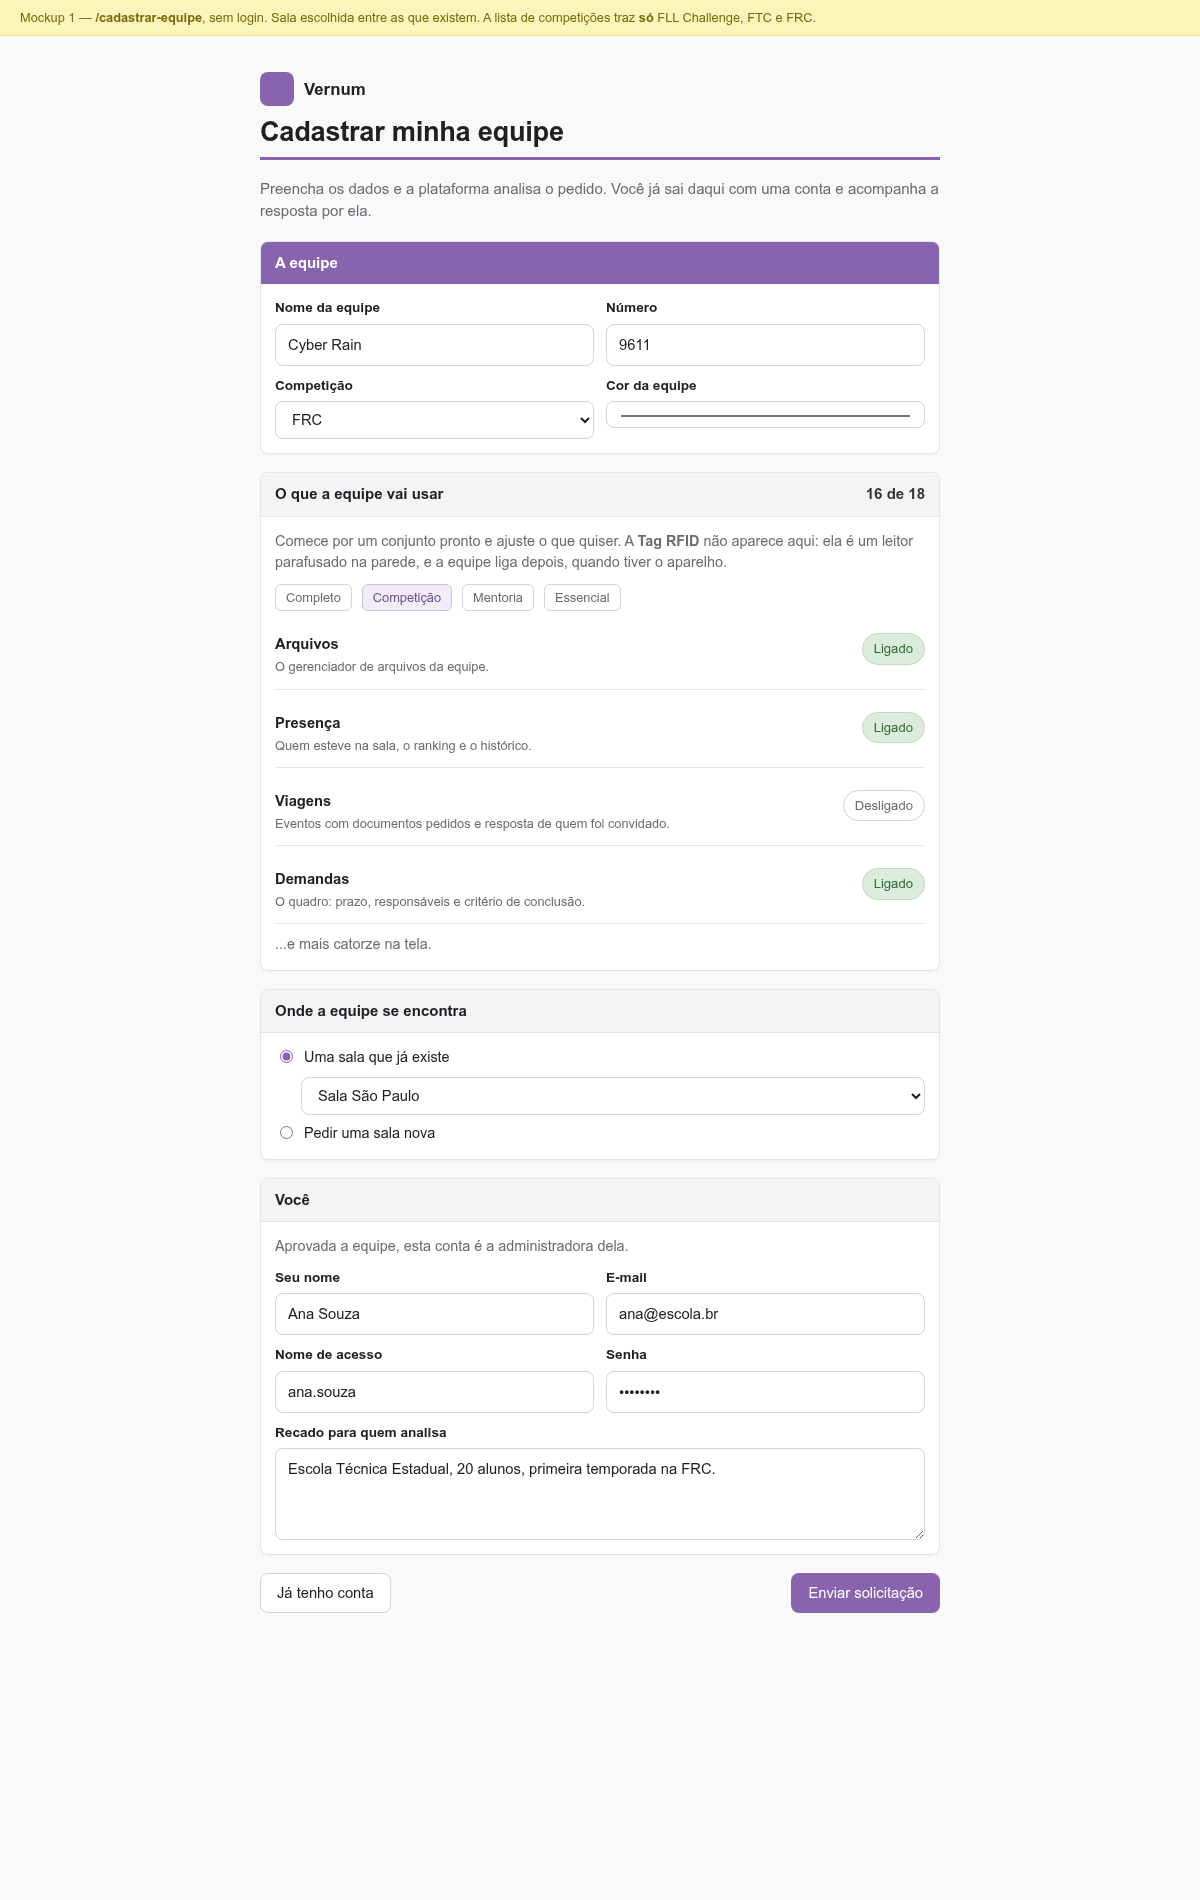
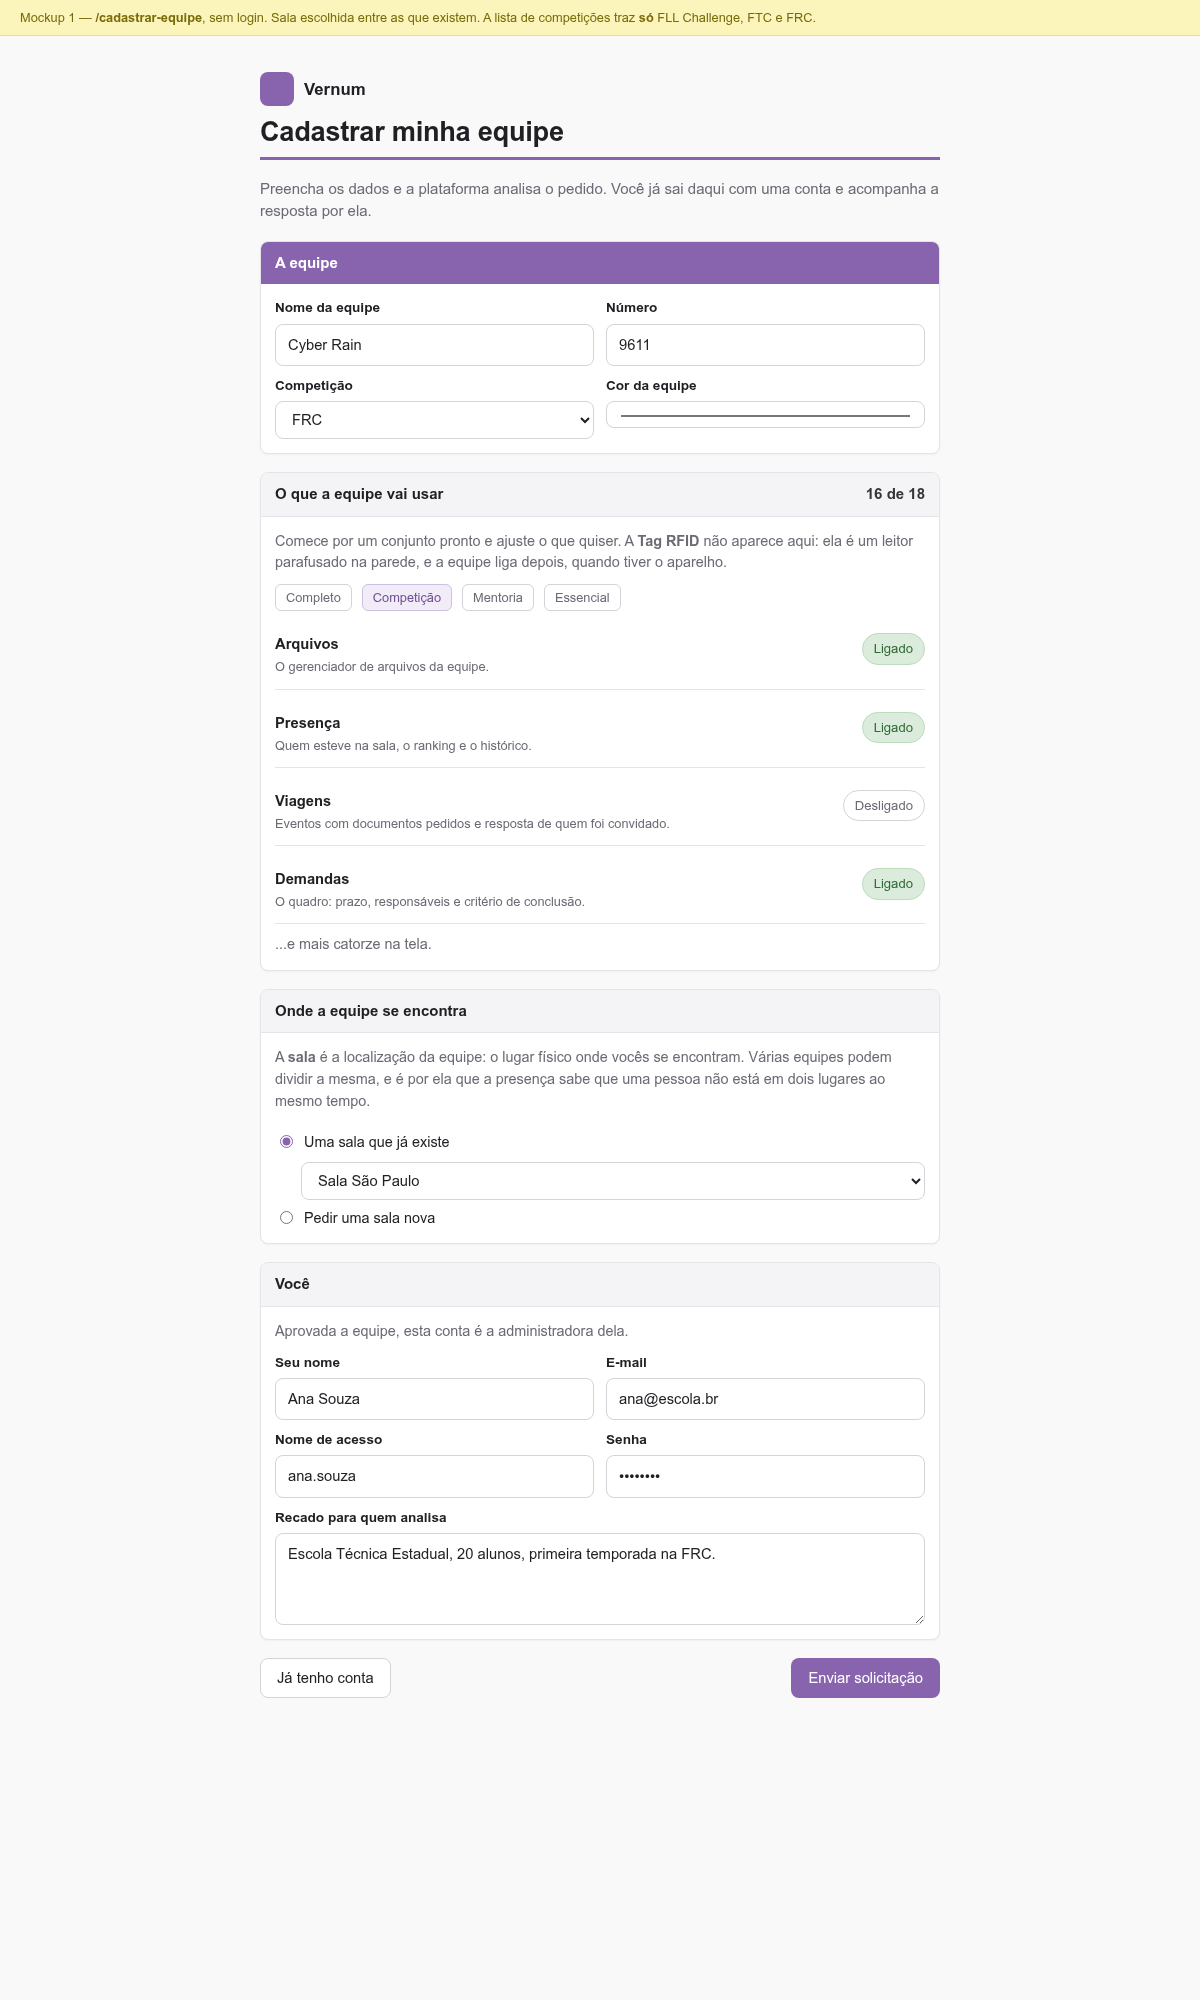
Say what a room is on the form, and show an example instead of a label
"Sala" reads like a classroom number to somebody who has never seen the platform, and it is not:
it is where the team is, shared with whatever other teams meet there, and it is the thing presence
uses to know a person cannot be in two places at once. The form says that now, before asking.

The field for a new one asks with an example — "ex: Escola XYZ - Joinville" — rather than repeating
its own label. A placeholder that only says "Nome da sala" spends the one line it has saying what
the question already said, and disappears the moment it could have been useful.

diff --git a/src/views/public/TeamSignupView.vue b/src/views/public/TeamSignupView.vue
@@ -108,7 +108,13 @@
           <!-- ------------------------------------------------------------ the room -->
           <section class="vc-card">
             <div class="vc-card__header vc-card__header--muted">Onde a equipe se encontra</div>
-            <div class="vc-card__body">
+            <div class="vc-card__body vc-stack">
+              <p class="vc-small vc-muted signup__hint">
+                A <strong>sala</strong> é a localização da equipe: o lugar físico onde vocês se
+                encontram. Várias equipes podem dividir a mesma, e é por ela que a presença sabe que
+                uma pessoa não está em dois lugares ao mesmo tempo.
+              </p>
+
               <div class="signup__room">
                 <label class="vc-checkbox">
                   <input v-model="roomMode" type="radio" value="existing" :disabled="!options.rooms.length">
@@ -129,7 +135,7 @@
                 </label>
                 <div v-if="roomMode === 'new'" class="signup__room-open">
                   <input v-model="form.requestedRoomName" class="vc-input" maxlength="80"
-                         placeholder="Nome da sala">
+                         placeholder="ex: Escola XYZ - Joinville">
                   <p class="vc-small vc-muted signup__hint">
                     A sala é criada junto com a equipe, se o pedido for aprovado.
                   </p>

diff --git a/docs/mockups/cadastro-de-equipe/2-sala-nova.html b/docs/mockups/cadastro-de-equipe/2-sala-nova.html
@@ -96,11 +96,16 @@
       <div class="vc-card">
         <div class="vc-card__header vc-card__header--muted">Onde a equipe se encontra</div>
         <div class="vc-card__body">
+          <p class="vc-small vc-muted" style="margin:0 0 10px">
+            A <b>sala</b> é a localização da equipe: o lugar físico onde vocês se encontram. Várias
+            equipes podem dividir a mesma, e é por ela que a presença sabe que uma pessoa não está em
+            dois lugares ao mesmo tempo.
+          </p>
           <div class="room__choice">
             <label class="vc-checkbox"><input type="radio" name="room"> Uma sala que já existe</label>
             <label class="vc-checkbox"><input type="radio" name="room" checked> Pedir uma sala nova</label>
             <div class="room__open">
-              <input class="vc-input" value="Sala Campinas" placeholder="Nome da sala">
+              <input class="vc-input" value="Escola XYZ - Joinville" placeholder="ex: Escola XYZ - Joinville">
               <p class="vc-small vc-muted" style="margin:6px 0 0">
                 A sala é criada junto com a equipe, se o pedido for aprovado.
               </p>

diff --git a/docs/mockups/cadastro-de-equipe/1-formulario.html b/docs/mockups/cadastro-de-equipe/1-formulario.html
@@ -96,6 +96,11 @@
       <div class="vc-card">
         <div class="vc-card__header vc-card__header--muted">Onde a equipe se encontra</div>
         <div class="vc-card__body">
+          <p class="vc-small vc-muted" style="margin:0 0 10px">
+            A <b>sala</b> é a localização da equipe: o lugar físico onde vocês se encontram. Várias
+            equipes podem dividir a mesma, e é por ela que a presença sabe que uma pessoa não está em
+            dois lugares ao mesmo tempo.
+          </p>
           <div class="room__choice">
             <label class="vc-checkbox"><input type="radio" name="room" checked> Uma sala que já existe</label>
             <div class="room__open">
